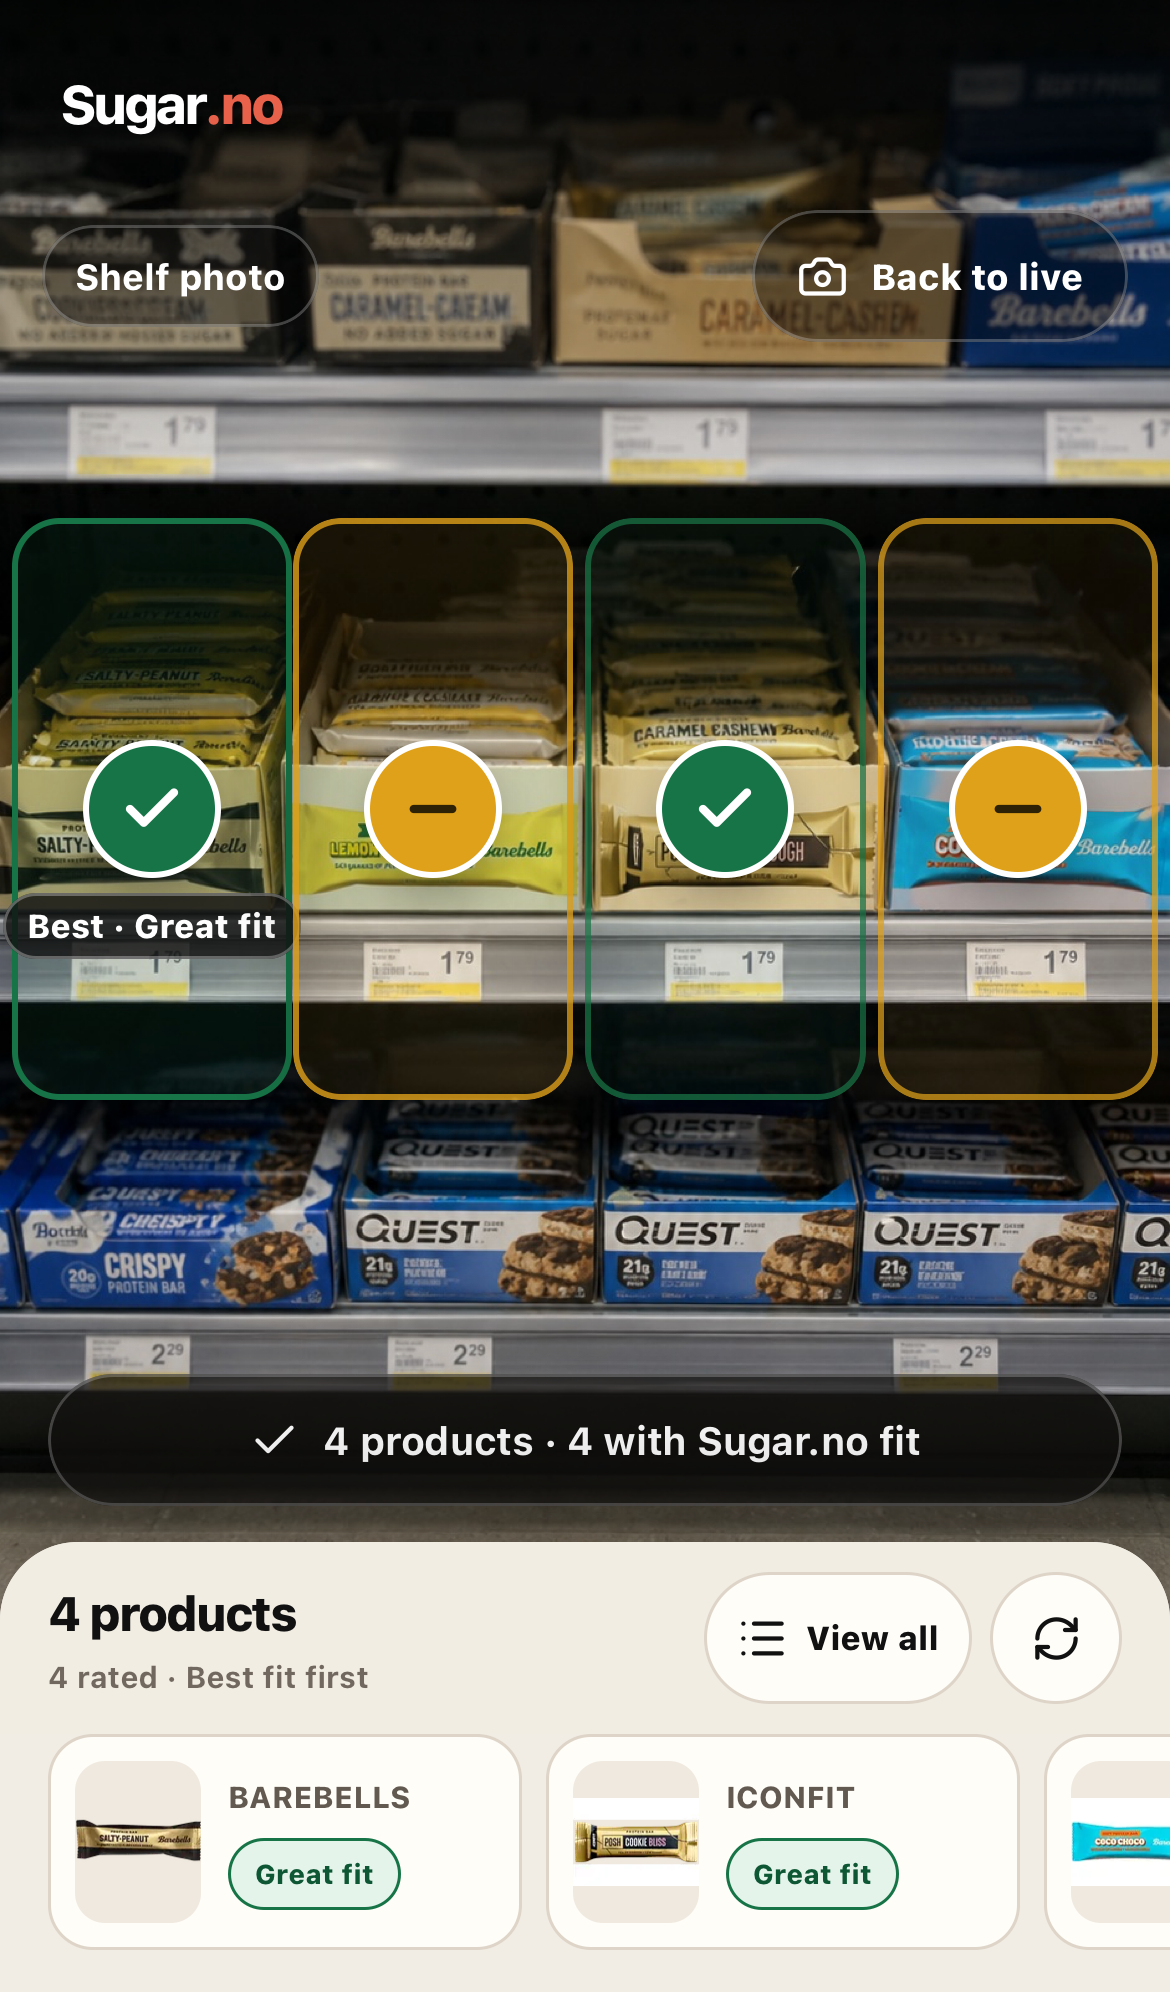
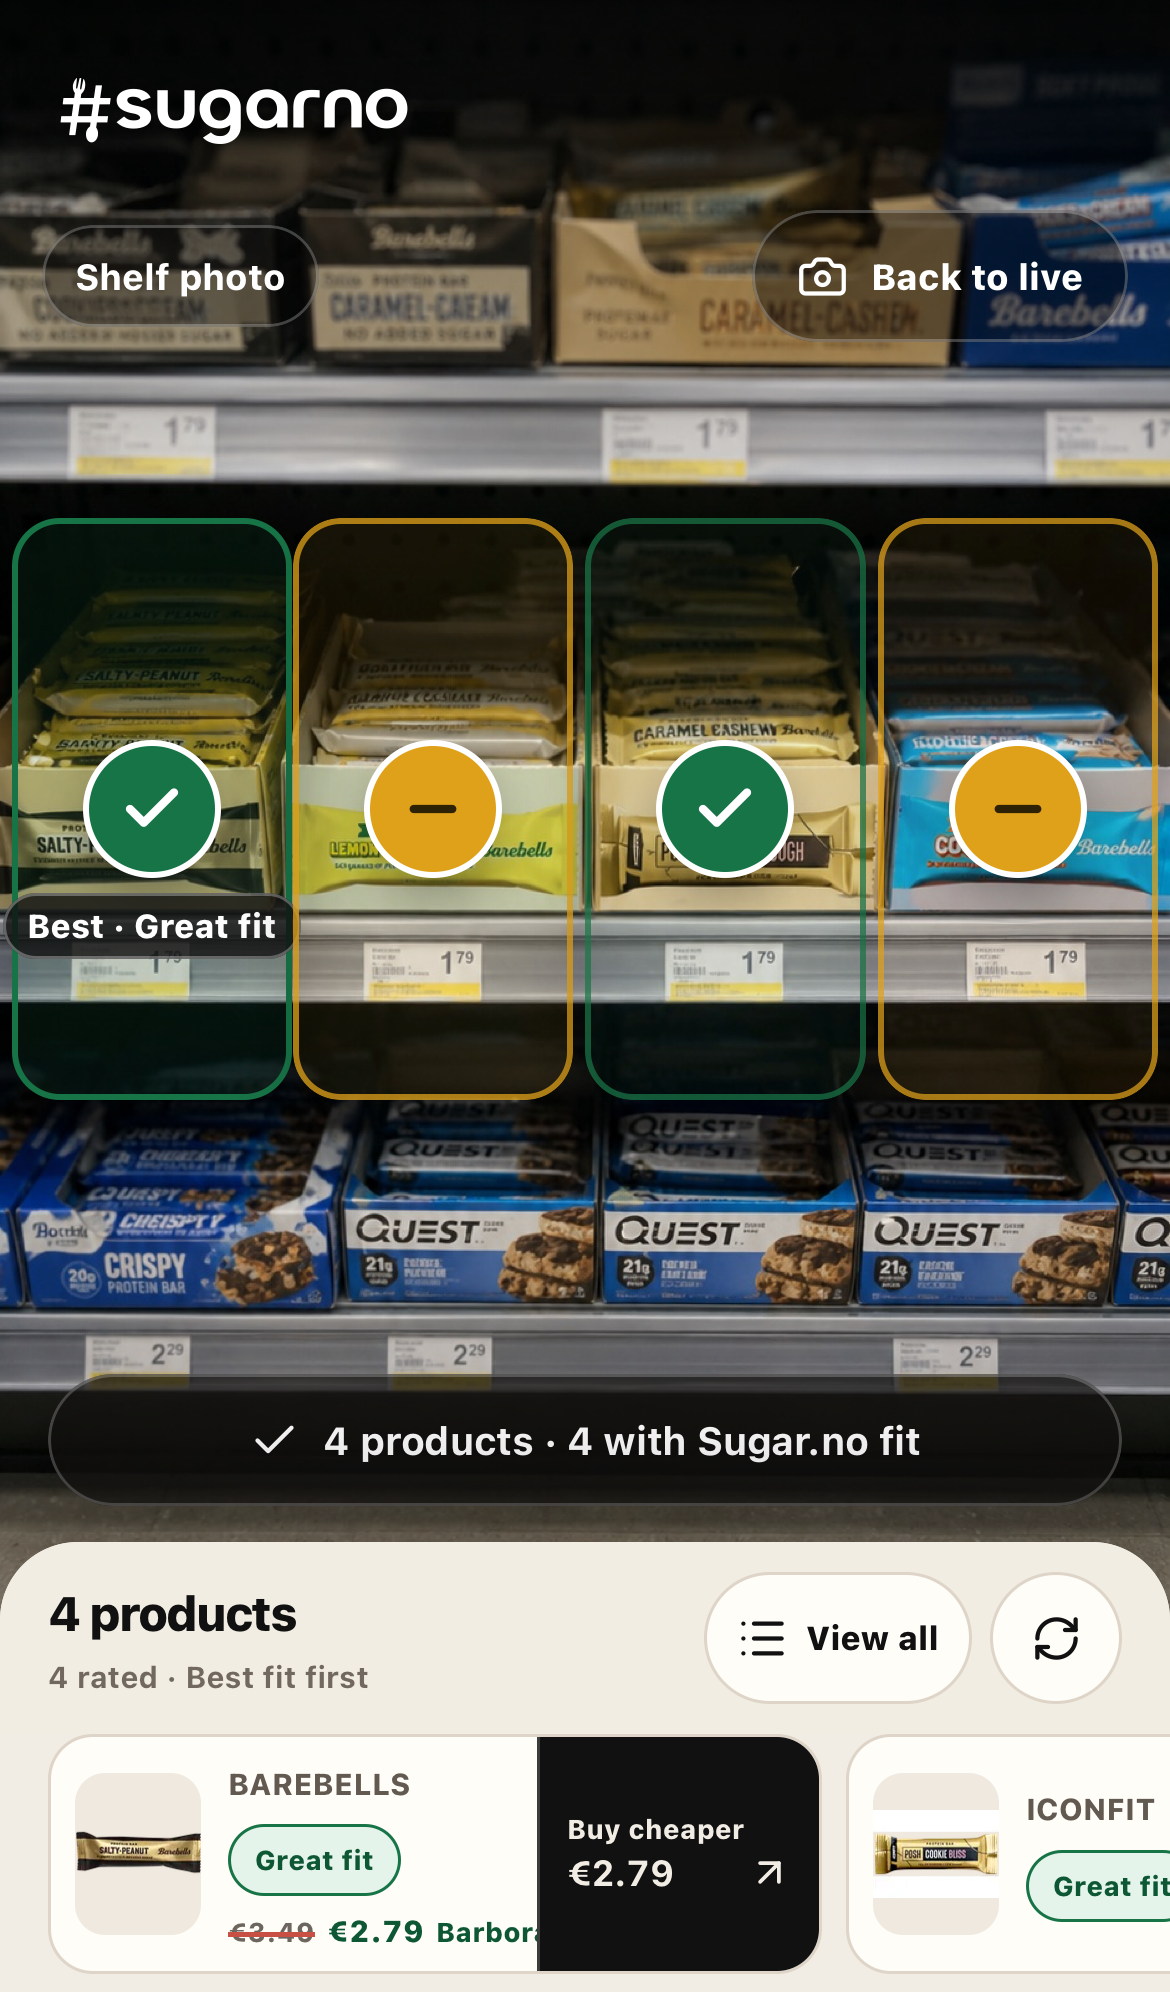
Show cheaper Barbora price in shelf demo

Changed region(s): [[0.0615, 0.8715, 1.0, 0.996], [0.0615, 0.0311, 0.3692, 0.0934]]

diff --git a/tests/e2e/scanner.spec.ts b/tests/e2e/scanner.spec.ts
@@ -168,6 +168,17 @@ test("sample shelf photo highlights products and shows a two-factor Sugar.no bad
   await unlock(page);
   await openDemoScene(page, "Shelf demo");
   await expect(page.getByRole("status")).toContainText("4 products · 4 with Sugar.no fit");
+  const shelfPreview = page.getByLabel("Product result preview");
+  const shelfDeal = shelfPreview.getByLabel("Demo shelf price €3.49, Barbora €2.79, cheaper at Barbora");
+  await expect(shelfDeal).toBeVisible();
+  await expect(shelfDeal.getByText("€3.49", { exact: true })).toHaveCSS("text-decoration-line", "line-through");
+  const shelfBuy = shelfPreview.getByRole("link", { name: /Buy .* cheaper at Barbora for €2\.79/ });
+  await expect(shelfBuy).toBeVisible();
+  await expect(shelfBuy).toHaveAttribute(
+    "href",
+    "https://barbora.lv/produkti/prot-bat-sal-riekst-saldin-barebells-55-g"
+  );
+  expect((await shelfBuy.boundingBox())?.height).toBeGreaterThanOrEqual(44);
   await expect(page.getByLabel("Shelf photo scanner").locator('button[aria-label^="Open "]')).toHaveCount(4);
   await expect(page.getByRole("status")).toContainText("4 products · 4 with Sugar.no fit");
   await expect(page.getByLabel("Sample shelf photo with four supported protein snacks").locator("img")).toHaveCount(1);
@@ -220,13 +231,23 @@ test("sample shelf photo highlights products and shows a two-factor Sugar.no bad
   await expect(page.getByLabel("Sugar.no badge").getByText("Protein", { exact: true })).toBeVisible();
   await expect(page.getByLabel("Sugar.no badge").getByText("Fiber", { exact: true })).toHaveCount(0);
   await expect(page.getByLabel("Sugar.no badge").getByText("Sugar", { exact: true })).toBeVisible();
+  const shelfPriceComparison = page.getByLabel("Price comparison");
+  await expect(shelfPriceComparison.getByText("Cheaper at Barbora", { exact: true })).toBeVisible();
+  await expect(shelfPriceComparison.getByText("Demo shelf price", { exact: true })).toBeVisible();
+  await expect(shelfPriceComparison.getByText("€3.49", { exact: true })).toHaveCSS(
+    "text-decoration-line",
+    "line-through"
+  );
+  await expect(shelfPriceComparison.getByText("€2.79", { exact: true })).toBeVisible();
+  await expect(shelfPriceComparison.getByRole("link", { name: /Buy cheaper at Barbora · €2\.79/ })).toHaveAttribute(
+    "href",
+    "https://barbora.lv/produkti/prot-bat-sal-riekst-saldin-barebells-55-g"
+  );
   await expect(page.getByLabel("Shelf marker legend")).toHaveCount(0);
   await expect(page.getByText("Outlines show products with both protein and total sugar available.", { exact: true })).toHaveCount(0);
   await expect(page.getByText("Values per 100 g · Compared with protein snacks in this demo")).toBeVisible();
   await expect(page.getByText(/Sugar\.no Match \d+/)).toHaveCount(0);
   await expect(page.getByText("Data sources and limits", { exact: true })).toHaveCount(0);
-  const retailer = page.getByRole("link", { name: /View at Barbora/ });
-  await expect(retailer).toHaveAttribute("href", /^https:\/\/barbora\.lv\/produkti\//);
   await expect(page.getByText(/\b(good|bad|unhealthy)\b/i)).toHaveCount(0);
   await waitForAlternativeImages(page);
   const accessibility = await new AxeBuilder({ page })

diff --git a/src/components/scanner-app.tsx b/src/components/scanner-app.tsx
@@ -1606,6 +1606,7 @@ function LoadingProductResult({ detection }: { detection: ProductDetection }) {
 function PriceComparison({ detection, onRetailer }: { detection: ProductDetection; onRetailer: () => void }) {
   const shelfPrice = detection.shelfPrice;
   if (!shelfPrice) return null;
+  const isDemoShelfPrice = shelfPrice.observedText.startsWith("Demo shelf price");
   const offer = detection.retailerOffer?.exactSku ? detection.retailerOffer : null;
   const cheaperOnline = Boolean(offer && offer.price < shelfPrice.amount);
   const savings = cheaperOnline && offer ? shelfPrice.amount - offer.price : 0;
@@ -1624,7 +1625,7 @@ function PriceComparison({ detection, onRetailer }: { detection: ProductDetectio
       </div>
       <div className={styles.priceValues}>
         <div>
-          <small>Scanned shelf label</small>
+          <small>{isDemoShelfPrice ? "Demo shelf price" : "Scanned shelf label"}</small>
           <strong className={cheaperOnline ? styles.crossedPrice : ""}>€{shelfPrice.amount.toFixed(2)}</strong>
         </div>
         {offer ? (
@@ -1637,7 +1638,7 @@ function PriceComparison({ detection, onRetailer }: { detection: ProductDetectio
       {offer ? (
         <>
           <p>
-            Matched by package identity
+            {isDemoShelfPrice ? "Demo shelf value · exact product match" : "Matched by package identity"}
             {checkedTime ? ` · checked ${checkedTime}` : ""}
           </p>
           <a
@@ -1666,9 +1667,10 @@ function CompactProductPrice({ detection }: { detection?: ProductDetection }) {
   if (!shelfPrice) return null;
   const offer = detection.retailerOffer?.exactSku ? detection.retailerOffer : null;
   const cheaperAtBarbora = Boolean(offer && offer.price < shelfPrice.amount);
+  const shelfPriceLabel = shelfPrice.observedText.startsWith("Demo shelf price") ? "Demo shelf price" : "Shelf price";
   const accessibleLabel = cheaperAtBarbora && offer
-    ? `Shelf price €${shelfPrice.amount.toFixed(2)}, Barbora €${offer.price.toFixed(2)}, cheaper at Barbora`
-    : `Shelf price €${shelfPrice.amount.toFixed(2)}`;
+    ? `${shelfPriceLabel} €${shelfPrice.amount.toFixed(2)}, Barbora €${offer.price.toFixed(2)}, cheaper at Barbora`
+    : `${shelfPriceLabel} €${shelfPrice.amount.toFixed(2)}`;
 
   return (
     <div className={styles.compactProductPrice} role="group" aria-label={accessibleLabel}>

diff --git a/src/server/recognition.ts b/src/server/recognition.ts
@@ -98,7 +98,28 @@ const sampleShelf: ProductDetection[] = [
     productId: "prot-bat-sal-riekst-saldin-barebells-55-g",
     confidence: 0.98,
     box: { x: 0.01, y: 0.27, width: 0.24, height: 0.28 },
-    observedText: "Barebells Salty Peanut"
+    observedText: "Barebells Salty Peanut",
+    shelfPrice: {
+      amount: 3.49,
+      currency: "EUR",
+      observedText: "Demo shelf price €3.49",
+      confidence: 1
+    },
+    retailerOffer: {
+      retailer: "Barbora",
+      slug: "prot-bat-sal-riekst-saldin-barebells-55-g",
+      title: "Proteīna batoniņš ar sāļiem riekstiem BAREBELLS 55g",
+      brand: "BAREBELLS",
+      url: "https://barbora.lv/produkti/prot-bat-sal-riekst-saldin-barebells-55-g",
+      price: 2.79,
+      currency: "EUR",
+      unitPrice: 50.73,
+      unit: "kg",
+      imageUrl: "https://cdn.barbora.lv/products/25f716c3-1604-41de-8679-7f4231725f41_s.png",
+      checkedAt: "2026-08-25T06:37:00.000Z",
+      matchConfidence: 1,
+      exactSku: true
+    }
   },
   {
     productId: "prot-bat-barebells-lemon-cheesecake-55-g",

diff --git a/src/server/recognition.test.ts b/src/server/recognition.test.ts
@@ -36,6 +36,14 @@ describe("recognizeProducts", () => {
     );
     expect(result.imageStored).toBe(false);
     expect(result.model).toBe("deterministic-sample-v1");
+    expect(result.detections[0]).toMatchObject({
+      shelfPrice: { amount: 3.49, observedText: "Demo shelf price €3.49" },
+      retailerOffer: {
+        price: 2.79,
+        exactSku: true,
+        slug: "prot-bat-sal-riekst-saldin-barebells-55-g"
+      }
+    });
   });
 
   it("treats checkout as one multi-product frame through the same response shape", async () => {

diff --git a/src/components/scanner-app.module.css b/src/components/scanner-app.module.css
@@ -1354,7 +1354,7 @@
 }
 
 .compactProductPrice > .compactCrossedPrice {
-  color: #817970;
+  color: #6d665e;
   text-decoration: line-through 1.5px #c84f43;
   text-decoration-skip-ink: none;
 }

diff --git a/docs/test-runs/2026-08-25-shelf-demo-price-deal.md b/docs/test-runs/2026-08-25-shelf-demo-price-deal.md
@@ -1,0 +1,36 @@
+# Shelf demo crossed-price release check
+
+- Date: 2026-08-25, Europe/Riga
+- Scope: make the guaranteed Shelf demo visibly demonstrate the investor-requested cheaper-online flow without weakening price trust for live scans.
+
+## Evidence boundary
+
+- The generated shelf scene does not contain a verified current physical-store price. The fixture therefore labels €3.49 as a `Demo shelf price`; it is interaction evidence, not a store-price claim.
+- The exact Barbora page `prot-bat-sal-riekst-saldin-barebells-55-g` was read on 2026-08-25. Its public page reported the active Barebells Salty Peanut 55 g SKU at €2.79, €50.73/kg.
+- Only that exact SKU receives the deterministic offer. The other three sample products remain unchanged.
+
+## Intended behavior
+
+1. `Shelf demo` resolves four rated products as before.
+2. The leading compact Barebells card crosses out €3.49, shows `Barbora €2.79` and offers a 44 px `Buy cheaper` action to the exact product URL.
+3. The expanded result says `Cheaper at Barbora`, labels €3.49 as `Demo shelf price`, shows €2.79 online and exposes the same exact link.
+4. Live camera and saved-photo results still require a trusted physical price label plus an exact cheaper retailer match; no fallback or possible match may create the deal.
+
+## Technical checks
+
+- `npm test -- --run src/server/recognition.test.ts` — pass: 1 file, 18 recognition tests.
+- `npm run test:e2e -- --grep "sample shelf photo"` — pass: 1 Mobile Safari scenario, including exact retailer URL, crossed-price CSS, 44 px CTA and automated WCAG A/AA audit. The first run exposed insufficient contrast on the crossed price; its foreground was corrected from `#817970` to `#6d665e` before the passing rerun.
+- `npm run verify` — pass: ESLint, TypeScript, 20 Vitest files / 109 tests, production Next.js build and standalone asset preparation.
+- `CI=1 npm run test:e2e` — pass: all 21 Mobile Safari scenarios, including narrow portrait, landscape, iPhone 17 Pro, reduced motion, enlarged text, dark mode and accessibility coverage.
+- `git diff --check` — pass.
+- Visual evidence inspected at the original 1170 × 1992 size: `docs/screenshots/shelf-mobile.png` and `docs/screenshots/shelf-results-mobile.png`. The compact preview shows the crossed demo value and retailer CTA without obscuring the camera; the expanded best-first list preserves the same two prices on the exact Barebells row.
+
+Production commit, deployment ID and health response are recorded below after the GitHub and Railway checks.
+
+## Product check after deployment
+
+1. Open production, tap `Show demo`, then `Shelf demo`.
+2. Confirm the leading compact product has a visible line through €3.49 and a separate €2.79 Barbora price.
+3. Confirm `Buy cheaper` is immediately tappable and opens the Barebells Salty Peanut 55 g Barbora page.
+4. Open `View all`; confirm €3.49 alone remains crossed out and is explicitly identified as a demo shelf price.
+5. Confirm all four Sugar.no fit markers and best-first product ordering remain unchanged.

diff --git a/README.md b/README.md
@@ -30,6 +30,7 @@ The app is a working mobile-first web/PWA concept with:
 - a vertical expanded ranking that puts the highest verified Sugar.no fit first, keeps `Great / Moderate / Low fit` attached to every rated row and places unrated identities last as `Needs nutrition label`;
 - ranked product rows name the exact recognized SKU or variant, so several products from one brand remain distinguishable;
 - camera-read shelf prices shown directly under recognized products, plus a live Barbora offer lookup with source time and fail-closed exact-SKU state;
+- a deterministic Shelf demo price comparison on the leading Barebells result: an explicitly labelled €3.49 demo shelf value is crossed out beside the exact Barbora offer verified at €2.79 on 25 August 2026, with the existing one-tap retailer action;
 - same-SKU grouping so repeated facings such as four Coca-Cola cans count as one unique product;
 - a held live-camera result with an explicit `Scan again` action, so moving the phone cannot replace the result while it is being read;
 - an automatic focused center retry after an uncertain broad camera pass, with remapped overlays and a separate conservative confidence threshold;
@@ -64,6 +65,8 @@ Each percentile uses all available verified values in the 40-product protein-sna
 For exact external food records and a trusted package-label read outside the curated snack category, the server calculates a separate reference-based fit. Protein uses the EU `source of protein` / `high protein` energy-share thresholds; total sugar uses the EU low-sugar threshold of 5 g/100 g for solids or 2.5 g/100 ml for liquids. Sugar.no's yellow middle sugar band is explicitly defined as up to twice the official low-sugar threshold. The two bands are weighted equally for the shelf summary. `Best fit in this scan` appears only inside a fair cohort that shares category, per-100 basis, scoring method and both factors; near ties have no winner. These nutrition-claim references are not a medical or absolute health score. Pages without enough nutrition remain unrated. See [Regulation (EC) No 1924/2006](https://eur-lex.europa.eu/legal-content/en/TXT/?uri=CELEX%3A32006R1924).
 
 The scanner deliberately has no save action. When a trusted shelf label and an exact Barbora SKU prove that the current online price is lower, the compact result replaces that secondary behavior with a one-tap `Buy cheaper` action to the exact Barbora page. Similar options remain immediately comparable, but commercial availability never changes the independent Sugar.no rating or ranking.
+
+The deterministic Shelf demo intentionally includes one transparent commercial example. Its €3.49 shelf value is marked as a demo fixture, while the attached €2.79 Barbora value, exact SKU URL and unit price were read from the public product page on 25 August 2026. This demonstrates the crossed-price and one-tap purchase flow without claiming that the generated shelf photo is a live store-price observation. Live camera results keep the stricter physical-label and freshness gates above.
 
 ## Stack
 

diff --git a/docs/product-qa.md b/docs/product-qa.md
@@ -7,7 +7,7 @@ Run this check on the deployed HTTPS URL using Safari on an iPhone. Use a privat
 1. Open the link. Confirm that it goes directly to the camera-first scanner with no access-code form or `Private demo` label. The top-left brand must be the official white Sugar.no symbol plus wordmark from `sugar.no`, not styled text, and it must stay fully visible in portrait and landscape.
 2. Confirm the camera permission prompt begins immediately and `Show demo` remains visible if permission is denied or the camera is unavailable.
 3. Tap `Show demo`, then `Shelf demo`. Confirm that the camera scene fills the phone and four markers appear directly over the four supported packages. Rated markers must say `Great fit`, `Moderate fit` or `Low fit`; neutral identities must not masquerade as rated picks.
-4. Confirm that only a compact bottom sheet overlays the shelf. It should say `4 products · 4 with Sugar.no fit`, show product thumbnails and expose `View all`. Tap it and confirm it expands into a full-height comparison page; collapse it and confirm the held shelf returns unchanged.
+4. Confirm that only a compact bottom sheet overlays the shelf. It should say `4 products · 4 with Sugar.no fit`, show product thumbnails and expose `View all`. The first Barebells preview must cross out the explicitly demo €3.49 shelf value, show Barbora €2.79 and expose a one-tap `Buy cheaper` link to that exact SKU. Tap `View all` and confirm the full-height comparison repeats the same prices, identifies the shelf value as a demo and crosses out only €3.49; collapse it and confirm the held shelf returns unchanged.
 5. In the expanded page, confirm that the recognized products form one vertical `Best fit first` list. Rated products must run from higher to lower Sugar.no fit, show their plain-language fit plus Protein/Sugar values and use rank numbers. Any product without a verified full fit must be last as `Needs nutrition label` without a rank number. Confirm that the leading comparable product says `Best fit in this scan` as a small heading above its brand and name, not as a separate pill beneath the Sugar.no badge. Confirm that Fiber and unexplained numeric scores such as `86` do not appear.
 6. Tap each marker and each product in the ranked list. Confirm that its fit text appears and the product card changes. The package outline must remain the fit color: no white selected/best ring and no `2/2 signals` pill may appear over the camera.
 7. Swipe the Similar options cards left and right. Confirm that they are comparable formats and remain usable without horizontal page overflow.

diff --git a/docs/acceptance.md b/docs/acceptance.md
@@ -24,6 +24,7 @@ Status reflects reproducible evidence in this repository, not the intended final
 | Live result remains readable | Successful camera recognition pauses the frame and requests until `Scan again`; WebKit test confirms no background replacement and then a clean new result | Pass locally |
 | Conflicting retailer brand | Coca-Cola/Pepsi brand regression is rejected before any offer is returned; possible matches have no UI link | Pass locally |
 | Price requires shelf label | Unit regression requires a separate-label signal, confidence ≥0.90 and matching EUR text; browser regression confirms no price module without that evidence and no retailer link for a non-exact SKU | Pass locally |
+| Shelf demo shows cheaper-online concept | The first deterministic shelf result labels €3.49 as a demo shelf value, crosses it out only against an exact €2.79 Barbora offer checked on 25 August 2026, and exposes the exact one-tap retailer link in both compact and expanded views | Pass locally |
 | Camera focuses on Sugar.no ratings | Complete protein-plus-sugar fits use `Great / Moderate / Low` markers. One-factor and identity-only detections remain available in the result sheet but never receive a camera marker, overall fit or misleading approval icon | Pass locally |
 | Camera overlay stays visually focused | Rated markers show the fit icon and selected fit label without a redundant `2/2 signals` pill. Selected and best packages keep their fit-colored outline and never add a white frame | Pass locally |
 | Unrated result is actionable | The expanded result omits the repeated fit legend, labels the row `Needs nutrition label` and provides one 48 px primary recovery action rather than a passive `Identified` state | Pass locally |

diff --git a/Bugs.md b/Bugs.md
@@ -1,5 +1,7 @@
 # Bugs
 
+- **2026-08-25: the guaranteed Shelf demo described online savings but never supplied a price comparison, so the investor path could not demonstrate the requested crossed-price purchase action.** The leading Barebells fixture now carries an explicitly labelled €3.49 demo shelf value and the exact Barbora SKU offer verified at €2.79 on 25 August 2026. The compact result crosses out only the demo shelf value and exposes one 44 px `Buy cheaper` action; the expanded result preserves the same two prices, €0.70 difference and exact retailer link.
+
 - **2026-08-25: the scanner header approximated the Sugar.no name with styled text instead of using the official brand mark.** The header now renders the exact white symbol-and-wordmark SVG currently published on `sugar.no`, with its original `137 × 26.07` viewBox and aspect ratio preserved as a local first-party asset.
 
 - **2026-08-25: camera markers repeated `2/2 signals` and selected/best products gained a heavy white frame.** The redundant signal pill was removed from the camera overlay and its accessibility label. Selected and best markers now keep only the semantic fit-colored package outline plus stable shadow, while detailed Protein/Sugar evidence remains in the comparison sheet.
